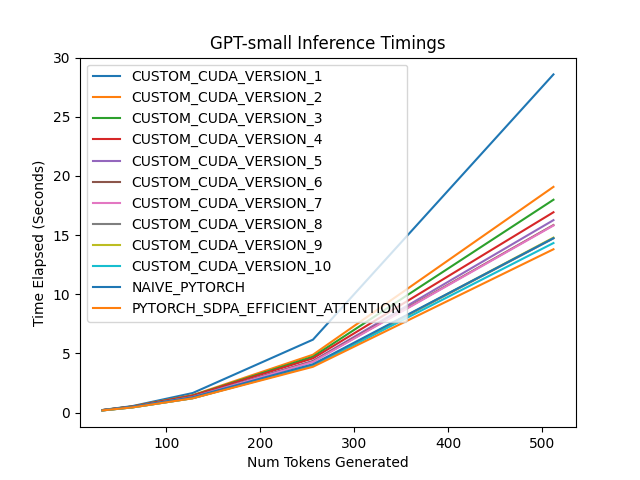
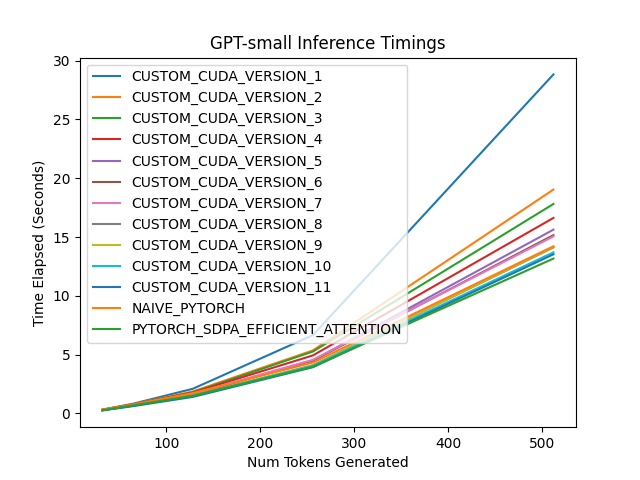
Support non-contiguous Q, K, V (as long as dim 0 stride is 1)

diff --git a/causal_self_attention.py b/causal_self_attention.py
@@ -22,11 +22,23 @@ class ScaledDotProductAttentionBackend(Enum):
     CUSTOM_CUDA_VERSION_8  = "CUSTOM_CUDA_VERSION_8"
     CUSTOM_CUDA_VERSION_9  = "CUSTOM_CUDA_VERSION_9"
     CUSTOM_CUDA_VERSION_10 = "CUSTOM_CUDA_VERSION_10"
+    CUSTOM_CUDA_VERSION_11 = "CUSTOM_CUDA_VERSION_11"
 
 PYTORCH_SDPA_BACKENDS = [ScaledDotProductAttentionBackend.PYTORCH_SDPA_MATH,
                          ScaledDotProductAttentionBackend.PYTORCH_SDPA_FLASH_ATTENTION,
                          ScaledDotProductAttentionBackend.PYTORCH_SDPA_EFFICIENT_ATTENTION,
                          ScaledDotProductAttentionBackend.PYTORCH_SDPA_CUDNN_ATTENTION]
+
+BACKENDS_REQUIRING_CONTIGUOUS_TENSORS = [ScaledDotProductAttentionBackend.CUSTOM_CUDA_VERSION_1,
+                                         ScaledDotProductAttentionBackend.CUSTOM_CUDA_VERSION_2,
+                                         ScaledDotProductAttentionBackend.CUSTOM_CUDA_VERSION_3,
+                                         ScaledDotProductAttentionBackend.CUSTOM_CUDA_VERSION_4,
+                                         ScaledDotProductAttentionBackend.CUSTOM_CUDA_VERSION_5,
+                                         ScaledDotProductAttentionBackend.CUSTOM_CUDA_VERSION_6,
+                                         ScaledDotProductAttentionBackend.CUSTOM_CUDA_VERSION_7,
+                                         ScaledDotProductAttentionBackend.CUSTOM_CUDA_VERSION_8,
+                                         ScaledDotProductAttentionBackend.CUSTOM_CUDA_VERSION_9,
+                                         ScaledDotProductAttentionBackend.CUSTOM_CUDA_VERSION_10]
 
 ALL_VERSIONED_CUSTOM_CUDA_BACKENDS = [ScaledDotProductAttentionBackend.CUSTOM_CUDA_VERSION_1,
                                       ScaledDotProductAttentionBackend.CUSTOM_CUDA_VERSION_2,
@@ -37,7 +49,8 @@ ALL_VERSIONED_CUSTOM_CUDA_BACKENDS = [ScaledDotProductAttentionBackend.CUSTOM_CU
                                       ScaledDotProductAttentionBackend.CUSTOM_CUDA_VERSION_7,
                                       ScaledDotProductAttentionBackend.CUSTOM_CUDA_VERSION_8,
                                       ScaledDotProductAttentionBackend.CUSTOM_CUDA_VERSION_9,
-                                      ScaledDotProductAttentionBackend.CUSTOM_CUDA_VERSION_10]
+                                      ScaledDotProductAttentionBackend.CUSTOM_CUDA_VERSION_10,
+                                      ScaledDotProductAttentionBackend.CUSTOM_CUDA_VERSION_11]
 
 
 def load_attention_backend(backend: ScaledDotProductAttentionBackend) -> None:
@@ -69,6 +82,8 @@ def load_attention_backend(backend: ScaledDotProductAttentionBackend) -> None:
             import causal_multihead_self_attention_version_9
         case ScaledDotProductAttentionBackend.CUSTOM_CUDA_VERSION_10:
             import causal_multihead_self_attention_version_10
+        case ScaledDotProductAttentionBackend.CUSTOM_CUDA_VERSION_11:
+            import causal_multihead_self_attention_version_11
         case _:
             pass
 
@@ -82,10 +97,14 @@ def scaled_dot_product_attention(backend: ScaledDotProductAttentionBackend,
     if (backend == ScaledDotProductAttentionBackend.CUSTOM_CUDA
         or backend in ALL_VERSIONED_CUSTOM_CUDA_BACKENDS):
         # TODO: support batch size > 1
-        # Custom Cuda backend currently requires contiguous tensors.
-        queries = queries.contiguous().squeeze(0)
-        keys = keys.contiguous().squeeze(0)
-        values = values.contiguous().squeeze(0)
+        queries = queries.squeeze(0)
+        keys = keys.squeeze(0)
+        values = values.squeeze(0)
+
+    if backend in BACKENDS_REQUIRING_CONTIGUOUS_TENSORS:
+        queries = queries.contiguous()
+        keys = keys.contiguous()
+        values = values.contiguous()
 
     if backend in PYTORCH_SDPA_BACKENDS:
         batch_size, context_length, model_dim = queries.shape
@@ -139,6 +158,8 @@ def scaled_dot_product_attention(backend: ScaledDotProductAttentionBackend,
             return torch.ops.causal_multihead_self_attention_version_9.causal_multihead_self_attention_torch(Q=queries, K=keys, V=values, num_heads=num_heads).unsqueeze(0)
         case ScaledDotProductAttentionBackend.CUSTOM_CUDA_VERSION_10:
             return torch.ops.causal_multihead_self_attention_version_10.causal_multihead_self_attention_torch(Q=queries, K=keys, V=values, num_heads=num_heads).unsqueeze(0)
+        case ScaledDotProductAttentionBackend.CUSTOM_CUDA_VERSION_11:
+            return torch.ops.causal_multihead_self_attention_version_11.causal_multihead_self_attention_torch(Q=queries, K=keys, V=values, num_heads=num_heads).unsqueeze(0)
         case _:
             raise ValueError("Backend not implemented yet")
 

diff --git a/plot_inference_times.py b/plot_inference_times.py
@@ -43,7 +43,7 @@ if __name__ == "__main__":
 
     for attention_backend in [ScaledDotProductAttentionBackend.NAIVE_PYTORCH,
                               ScaledDotProductAttentionBackend.PYTORCH_SDPA_EFFICIENT_ATTENTION,
-                              ScaledDotProductAttentionBackend.CUSTOM_CUDA_VERSION_10]:
+                              ScaledDotProductAttentionBackend.CUSTOM_CUDA_VERSION_11]:
         memory_used = [max_memory_allocated_results[(attention_backend, max_tokens)] for max_tokens in max_tokens_values]
         plt.plot(max_tokens_values, memory_used, label=f"{attention_backend.name}")
 

diff --git a/torch_extensions/causal_multihead_self_attention_version_11/setup.py b/torch_extensions/causal_multihead_self_attention_version_11/setup.py
@@ -1,0 +1,12 @@
+from setuptools import setup, Extension
+from torch.utils import cpp_extension
+
+setup(name="causal_multihead_self_attention_version_11",
+      ext_modules=[
+          cpp_extension.CUDAExtension(
+              "causal_multihead_self_attention_version_11",
+              ["causal_multihead_self_attention.cu"],
+              extra_compile_args={'nvcc': ['--use_fast_math']},
+              py_limited_api=False)],  # I couldn't get py_limited_api=True to work.
+      cmdclass={'build_ext': cpp_extension.BuildExtension},
+)

diff --git a/torch_extensions/causal_multihead_self_attention_version_11/__init__.py b/torch_extensions/causal_multihead_self_attention_version_11/__init__.py
@@ -1,0 +1,2 @@
+# Taken from https://docs.pytorch.org/tutorials/advanced/cpp_custom_ops.html#setting-up-hybrid-python-c-registration
+from . import _C

diff --git a/README.md b/README.md
@@ -18,7 +18,7 @@ We will improve the runtime of this baseline by a few percentage points on an Nv
 
 Code for each CUDA kernel can be found in the `torch_extensions` folder.
 
-Baseline: Naïve PyTorch Implementation: 14.0 Seconds
+Baseline: Naïve PyTorch Implementation: 14.2 Seconds
 ----------------------------------------------------
 
 The attention implementation in PyTorch boils down to this:
@@ -31,7 +31,7 @@ The attention implementation in PyTorch boils down to this:
 ```
 
 
-Version 1: Naïve Flash Attention V1 - 28.5 seconds
+Version 1: Naïve Flash Attention V1 - 28.9 seconds
 --------------------------------------------------
 
 This implementation is based on [Flash Attention V1](https://arxiv.org/abs/2205.14135), with a few optimizations related to causal masking:
@@ -47,16 +47,16 @@ Shared Memory tile size (B_c, B_r): (48, 48)
 (Due to a bug B_c and B_r were set to 48 when they should be set to 64 to make maximum usage of the 64Kb of shared memory on the 1660 Super GPU. I will re-run this benchmark when I get time.)
 
 
-Version 2: Avoid Bank Conflicts Accessing K - 18.9 seconds
+Version 2: Avoid Bank Conflicts Accessing K - 19.1 seconds
 ----------------------------------------------------------
 
 Bank conflicts occur when multiple threads simultaneously access data in the same shared memory bank, leaving one memory bank busy while the others sit idle.
 Since K is stored untransposed with a row size of `d_head=64`, we hit this worst case since each thread reads the leftmost column of K, then the second to leftmost, etc.
 We fix this by adding 4 bytes of padding to each row of K, causing all these accesses to the same column to hit different memory banks.
-This gives us a huge speedup over the previous time of 28.5 seconds.
+This gives us a huge speedup over the previous time of 28.9 seconds.
 
 
-Version 3: Tune Tile Size and ThreadBlock Size - 17.6 seconds
+Version 3: Tune Tile Size and ThreadBlock Size - 18.0 seconds
 -------------------------------------------------------------
 
 ```
@@ -67,13 +67,13 @@ Shared Memory tile size (B_c, B_r): (32, 32)
 Increasing the number of total threads increases throughput, and aligning the shared memory tile size to the threadblock size reduces uncoalesced accesses to shared memory.
 
 
-Version 4: Pass `--use_fast_math` flag to `nvcc` - 16.4 seconds
+Version 4: Pass `--use_fast_math` flag to `nvcc` - 16.8 seconds
 ---------------------------------------------------------------
 
 The `--use_fast_math` flag causes `expf()` to be replaced by the device intrinsic `__expf()`, which is much faster without a noticeable difference in inference accuracy.
 
 
-Version 5: Use Warp Shuffles For Softmax Accumulation - 15.8 seconds
+Version 5: Use Warp Shuffles For Softmax Accumulation - 15.9 seconds
 --------------------------------------------------------------------
 
 Previously we used global memory for coordinating the calculations of the online softmax statistics (the maximum value and the sum of the exponentiated values with the max subtracted).
@@ -81,7 +81,7 @@ Instead we can use intra-warp communication, known as warp shuffles, and save on
 For each S block the online softmax statistics are accumulated onto the first thread in the warp, which then broadcasts to the rest of the threads in the warp.
 
 
-Version 6: Miscellaneous Small Optimizations - 15.3 seconds
+Version 6: Miscellaneous Small Optimizations - 15.4 seconds
 -----------------------------------------------------------
 
 To keep things more concise, we apply three optimization at once in this version.
@@ -95,21 +95,21 @@ The third optimization is adding the `__restrict__` qualifier to the device poin
 On some architectures this enables the load to go through a different cache that only supports read-only data.
 
 
-Version 7: Use Vectorized Loads and Stores - 15.2 seconds
+Version 7: Use Vectorized Loads and Stores - 15.4 seconds
 -------------------------------------------------------
 
 This update uses `float4` loads and stores when possible, which can improve performance by performing fewer load and store instructions since each instruction handles 128 bits instead of 32.
-Unfortunately the runtime improvement is negligible (decrease of only 0.1 seconds from the previous version).
+Unfortunately the runtime improvement is negligible (very small decrease from the previous version).
 
 
-Version 8: Update `O` in Shared Memory - 14.0 seconds
+Version 8: Update `O` in Shared Memory - 14.3 seconds
 -----------------------------------------------------
 
 While the Flash Attention V1 paper opts to maximize the shared memory dedicated to Q, K, V, and S by performing all O updates directly in global memory, I obtained better results by allocating some shared memory to O.
 Computing O in shared memory and only writing it back to global memory at the very end of the kernel lets us avoid the longer latencies of global memory.
 
 
-Version 9: Register Tiling Over Columns - 14.1 seconds
+Version 9: Register Tiling Over Columns - 14.2 seconds
 ------------------------------------------------------
 
 While shared memory has lower latency than global memory, registers have even lower latency than shared memory.
@@ -125,14 +125,14 @@ Register tile size (X, Y): (2, 1)
 ```
 
 
-Version 10: Register Tiling Over Rows - 13.6 seconds
+Version 10: Register Tiling Over Rows - 13.8 seconds
 ----------------------------------------------------
 
 In this version each thread computes 4 values of S and O, 2 per column and 2 per row.
 This further increases our arithmetic intensity, making better use of memory bandwidth.
 To enable this we increase the shared memory tile size in the y-direction from 32 to 64.
 
-This implementation beats our naïve PyTorch baseline of 14.0 seconds!
+This implementation beats our naïve PyTorch baseline of 14.2 seconds!
 
 ```
 blockDim: (16, 32)
@@ -144,7 +144,15 @@ Ideally we would use `B_r = B_c = 64`, but with a head dimensionality of 64 and 
 When I tried putting O back in HBM I got worse results, but further experimentation could yield a better configuration (I also had to swizzle K instead of padding it).
 
 
-Third Party Implementation: Efficient Attention - 13.0 seconds
+Version 11: Support Non-Contiguous Tensors - 13.6 seconds
+---------------------------------------------------------
+
+Until now, all the kernels have required that the query, key, and value tensors be contiguous in GPU memory.
+While using vectorized loads requires that the tensors' last dimension have stride 1, the kernel can easily accommodate a variable stride argument for the first dimension.
+This doesn't improve the kernel runtime, but it lets us skip the `.contiguous()` calls in the Python code, resuling in a small speedup.
+
+
+Third Party Implementation: Efficient Attention - 13.3 seconds
 --------------------------------------------------------------
 
 A professional implementation achieves an even better runtime, indicating that there is still more room for further optimization!
@@ -167,9 +175,6 @@ In my next CUDA kernel I'll leave vectorized loads and stores as the last optimi
 Future Work
 -----------
 
-**Support non-contiguous tensors**: Currently our custom CUDA kernel requires that its input tensors be contiguous, but measurements suggest that the `.contiguous()` calls in PyTorch take up to 0.3 seconds of the total runtime.
-If we can skip those calls by supporting non-contiguous tensors we might be able to narrow the gap between our implementation and Efficient Attention.
-
 **Memory Profiling**: Examining the peak memory usage would give a more complete picture of the advantages our kernel has over the naïve PyTorch attention kernel.
 
 **Take advantage of reduced-precision optimizations**.
@@ -186,13 +191,13 @@ cd llm-inference
 python3 -m venv venv
 source venv/bin/activate
 pip install -r requirements.txt
-for i in $(seq 10); do
+for i in $(seq 11); do
     pip uninstall -y causal_multihead_self_attention_version_${i};
     pip install --no-build-isolation torch_extensions/causal_multihead_self_attention_version_${i};
 done
 
 
-for attention_backend in NAIVE_PYTORCH CUSTOM_CUDA_VERSION_1 CUSTOM_CUDA_VERSION_2 CUSTOM_CUDA_VERSION_3 CUSTOM_CUDA_VERSION_4 CUSTOM_CUDA_VERSION_5 CUSTOM_CUDA_VERSION_6 CUSTOM_CUDA_VERSION_7 CUSTOM_CUDA_VERSION_8 CUSTOM_CUDA_VERSION_9 CUSTOM_CUDA_VERSION_10 PYTORCH_SDPA_EFFICIENT_ATTENTION; do
+for attention_backend in NAIVE_PYTORCH CUSTOM_CUDA_VERSION_1 CUSTOM_CUDA_VERSION_2 CUSTOM_CUDA_VERSION_3 CUSTOM_CUDA_VERSION_4 CUSTOM_CUDA_VERSION_5 CUSTOM_CUDA_VERSION_6 CUSTOM_CUDA_VERSION_7 CUSTOM_CUDA_VERSION_8 CUSTOM_CUDA_VERSION_9 CUSTOM_CUDA_VERSION_10 CUSTOM_CUDA_VERSION_11 PYTORCH_SDPA_EFFICIENT_ATTENTION; do
     python3 gpt2.py $attention_backend;
 done
 ```
